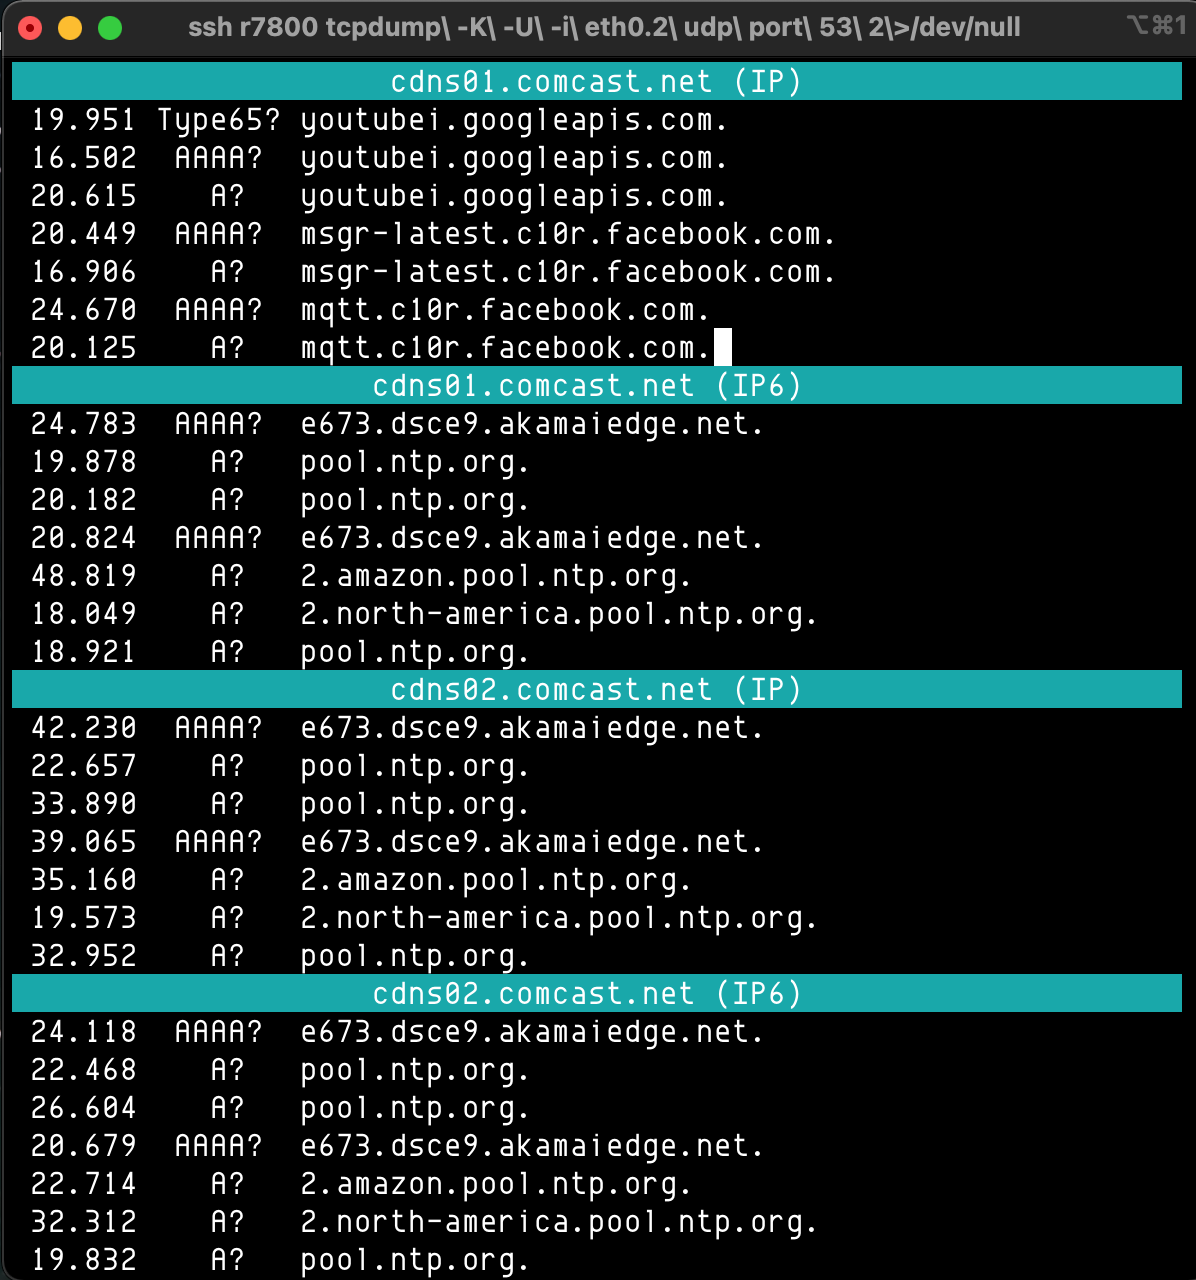
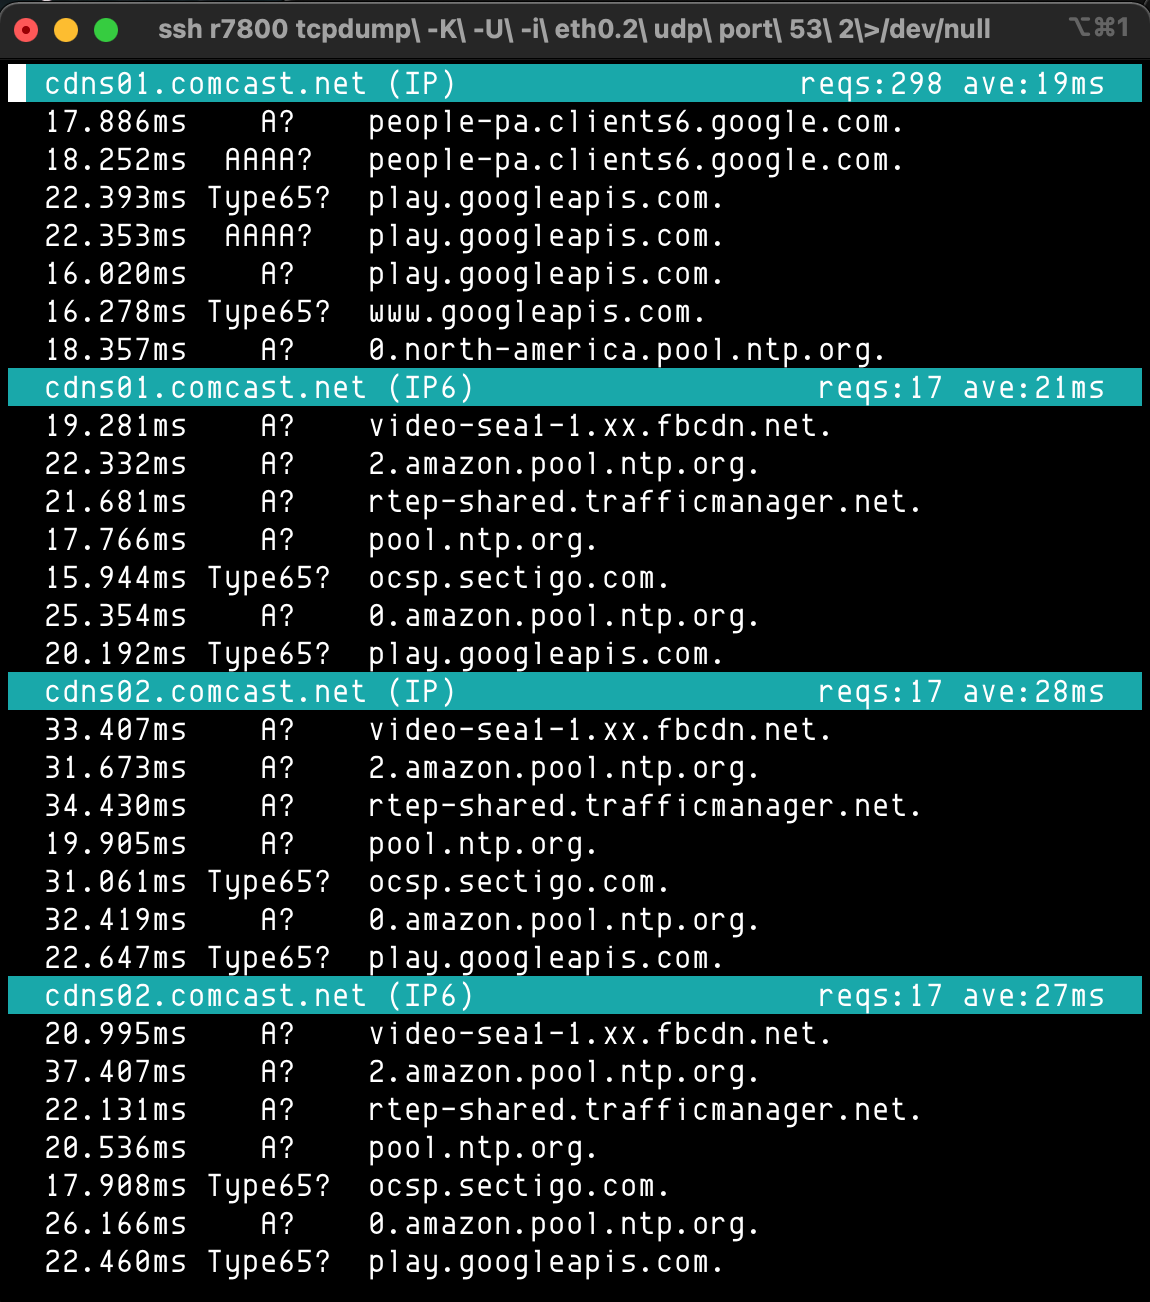
Add DNS host stats to title row of each DNS server
- Added total requests to title row for each server
- Added request duration average to title row for each server
- Added ANSI color code vars to improve readability of f-strings that use them
- Refactor some comments for clarity
- Update assets/example.png to show stats in title row
- Update README.md

Changed region(s): [[0.0, 0.0, 1.0, 1.0], [0.913, 0.0, 1.0, 0.0938], [0.7609, 0.5938, 0.7913, 0.625]]

diff --git a/DNS_times_parser.py b/DNS_times_parser.py
@@ -7,6 +7,8 @@ import itertools
 from collections import namedtuple
 from TerminalScrollRegionsDisplay.ScrollRegion import ScrollRegion
 
+ANSI_cyan_bg = "\x1b[46m"
+ANSI_color_reset = "\x1b[0m"
 
 def time2float(t):
     return t.hour * 3600 + t.minute * 60 + t.second + t.microsecond / 1e6
@@ -54,40 +56,61 @@ def process(packets_gen):
     """
     processes the packet generator stream packets_gen from tcpdump produced by
     parse_gen
-    """ 
-    ave_response_time = []
+    """
     scroll_regions = {}
+    scroll_regions_stats = {}
     request_cache = {}
     for p in packets_gen:
         if p.is_req:
-            # make note of new DNS request time
+            # ** new DNS request **
+            # make note of new DNS request
             request_cache[p.dst_address+'-'+p.proto+'-'+p.reqid] =\
                                       (time2float(p.t), p.query_address, p.type)
         elif p.src_address+'-'+p.proto+'-'+p.reqid in request_cache:
             #   ^^^^^ note address swap in key so responses match key
             #         made with original request's dst_address
-
+            # ** DNS response **
             # calculate time this request took
             request = request_cache[p.src_address+'-'+p.proto+'-'+p.reqid]
             del request_cache[p.src_address+'-'+p.proto+'-'+p.reqid]
 
             # add DNS response data to its scroll region for display
-            # scroll_region_name = f"{p.src_address[:-3]+'-'+p.proto:^40}"
-            scroll_region_name =\
-                     f"\x1b[46m{p.src_address[:-3]+' ('+p.proto+')':^65}\x1b[0m"
+            # the [:-3] trims the port number
+            scroll_region_name = f"{p.src_address[:-3]+' ('+p.proto+')'}"
 
             if scroll_region_name not in scroll_regions:
-                # create region for this new DNS server
+                # create scroll region for this new DNS server
                 scroll_regions[scroll_region_name] =\
                                                 ScrollRegion(scroll_region_name)
+                scroll_regions_stats[scroll_region_name] = {}
+                scroll_regions_stats[scroll_region_name]["total_requests"] = 0
+                scroll_regions_stats[scroll_region_name]["accumulated_time_ms"] = 0
 
-            # add this DNS request/response datum to its ScrollRegion
-            # instance for display - columns:
-            # | lookup time delta (ms) | DNS request type | address looked up |
+            # add this DNS request/response datum to its ScrollRegion instance
+            # for display
             dt_s = time2float(p.t) - request[0]
-            scroll_regions[scroll_region_name].AddLine(\
-                                       f"{dt_s*1000:<7.3f}{request[2]:^8}{request[1]}")
+            # datum columns:
+            # | lookup time delta (ms) | DNS request type | address looked up |
+            line = f" {dt_s*1000:>7.3f}ms {request[2]:^8} {request[1]}"
+            scroll_regions[scroll_region_name].AddLine(line)
+
+            # update stats for this scroll regions
+            scroll_regions_stats[scroll_region_name]["total_requests"] += 1
+            scroll_regions_stats[scroll_region_name]["accumulated_time_ms"] += dt_s*1000
+
+            # update the scroll region title with these stats
+            total_requests = scroll_regions_stats[scroll_region_name]["total_requests"]
+            ave_ms = (scroll_regions_stats[scroll_region_name]["accumulated_time_ms"] /
+                      scroll_regions_stats[scroll_region_name]["total_requests"])
+
+            left =   f"{scroll_region_name}"
+            right1 = f"{'reqs:' + str(total_requests)} "
+            right2 = f"{'ave:' + f'{ave_ms:>.0f}' + 'ms  '}"
+
+            title =  f"{ANSI_cyan_bg}  {left:<40} {right1 + right2:>20}{ANSI_color_reset}"
+            scroll_regions[scroll_region_name].SetTitle(title)
         else:
+            # ** DNS response without a matching request in request_cache **
             # ignore this response - no matching request in request_cache
             pass
 

diff --git a/README.md b/README.md
@@ -1,6 +1,6 @@
 DNS Response Times Monitor
 --------------------------------------------------------------------------------
-This script parses output from tcpdump (as a continuous stream or as a set amount by adding `-c` to the tcpdump arguments) to show DNS response times in ms for each DNS request ID separated by DNS server and IP version.
+This script parses output from tcpdump (as a continuous stream or as a set amount by adding `-c` to the tcpdump arguments) to show DNS response times in milliseconds for each DNS request grouped by DNS server and IP version.
 
 ##### Example use (continuous stream):
 ```
@@ -14,15 +14,12 @@ In this example, the interface used in tcpdump is the WAN interface of a Netgear
 cat assets/tcpdump_test.out | ./DNS_times_parser.py
 ```
 
-##### Columns:
-| lookup time delta (ms) | DNS request type | address looked up |
-|:----------------------:|:----------------:|:-----------------:|
-
-Output is done using terminal scroll regions - one for each DNS server:
+##### Output
+Output is done using terminal scroll regions provided by TerminalScrollRegionsDisplay - one for each DNS server:
 
 ![](assets/example.png)
 
-### Regarding Terminal Window Size and Terminal Scroll Regions
+### Regarding Terminal Window Size and Scroll Regions
 Terminal scroll regions are supplied by TerminalScrollRegionsDisplay. From its readme:
 
 > Each new instance will establish and print lines in a terminal scroll region whose position starts immediately after any previously instantiated scroll regions. That is, each region location is based on the number of rows in the region and how many regions have already been created.
@@ -34,6 +31,15 @@ and
 >If the terminal window height is not enough to display a complete scroll region for all scroll region instances, a highlighted "↓↓ more below ↓↓" message will appear at the last row of the terminal window which means more scroll region rows are hidden below.
 >
 >Note that when terminal window height is increased, any more below state is updated during the next AddLine() call (since there is no terminal window size change callback).
+
+##### Output Columns for each DNS server scroll region:
+###### Title Row
+| DNS Host | IP Version | Total Requests | Request Duration Average (ms) |
+|:--------:|:----------:|:--------------:|:-----------------------------:|
+
+###### Request Datum Rows
+| Individual Request Duration (ms) | DNS Request type | Address Looked Up |
+|:--------------------------------:|:----------------:|:-----------------:|
 
 ### Requirements
 - Python 3.6+ 
